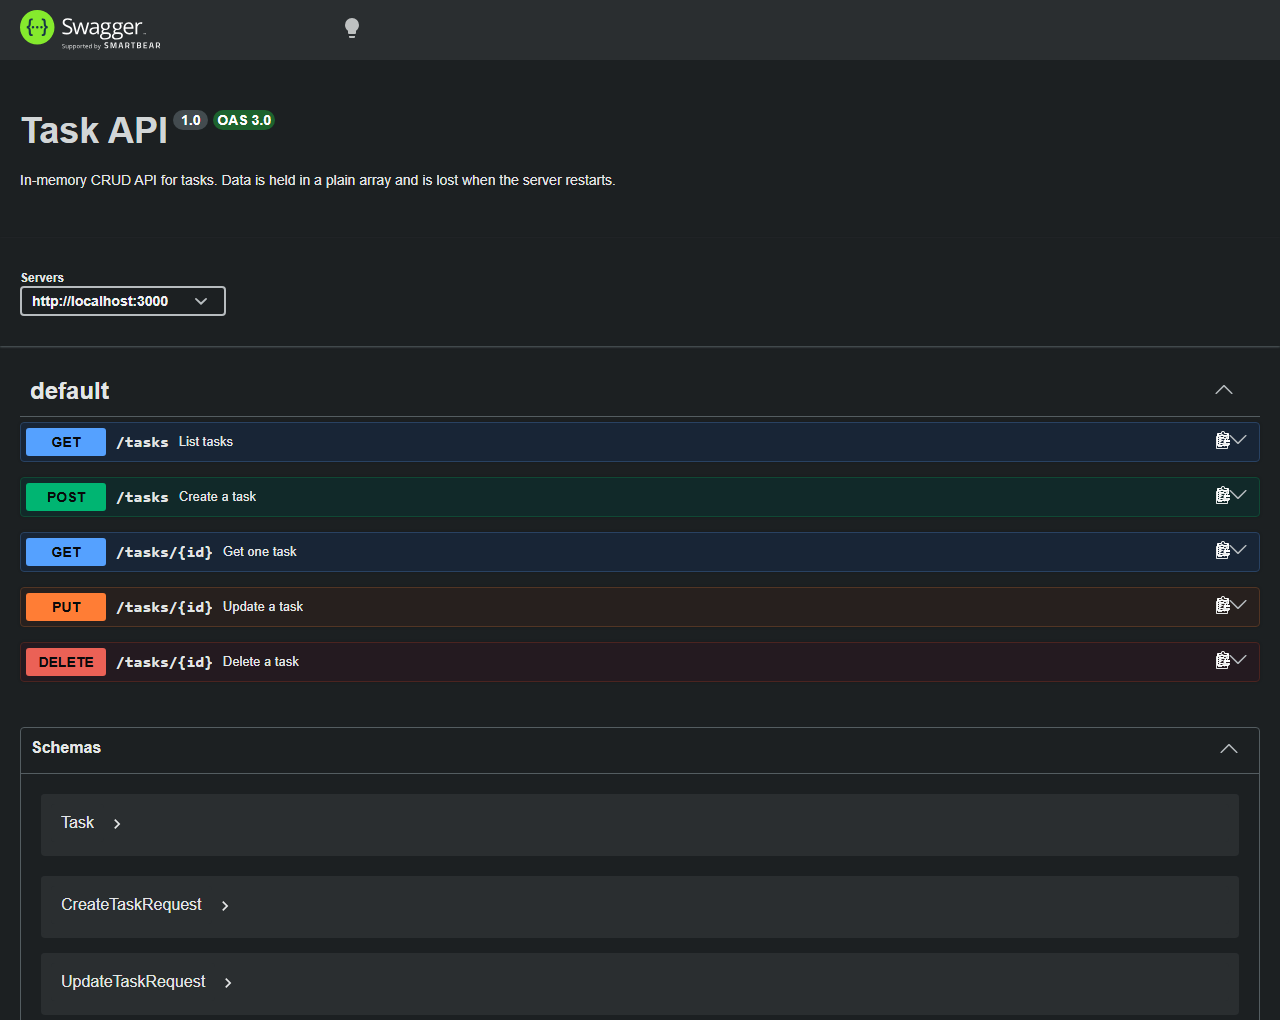
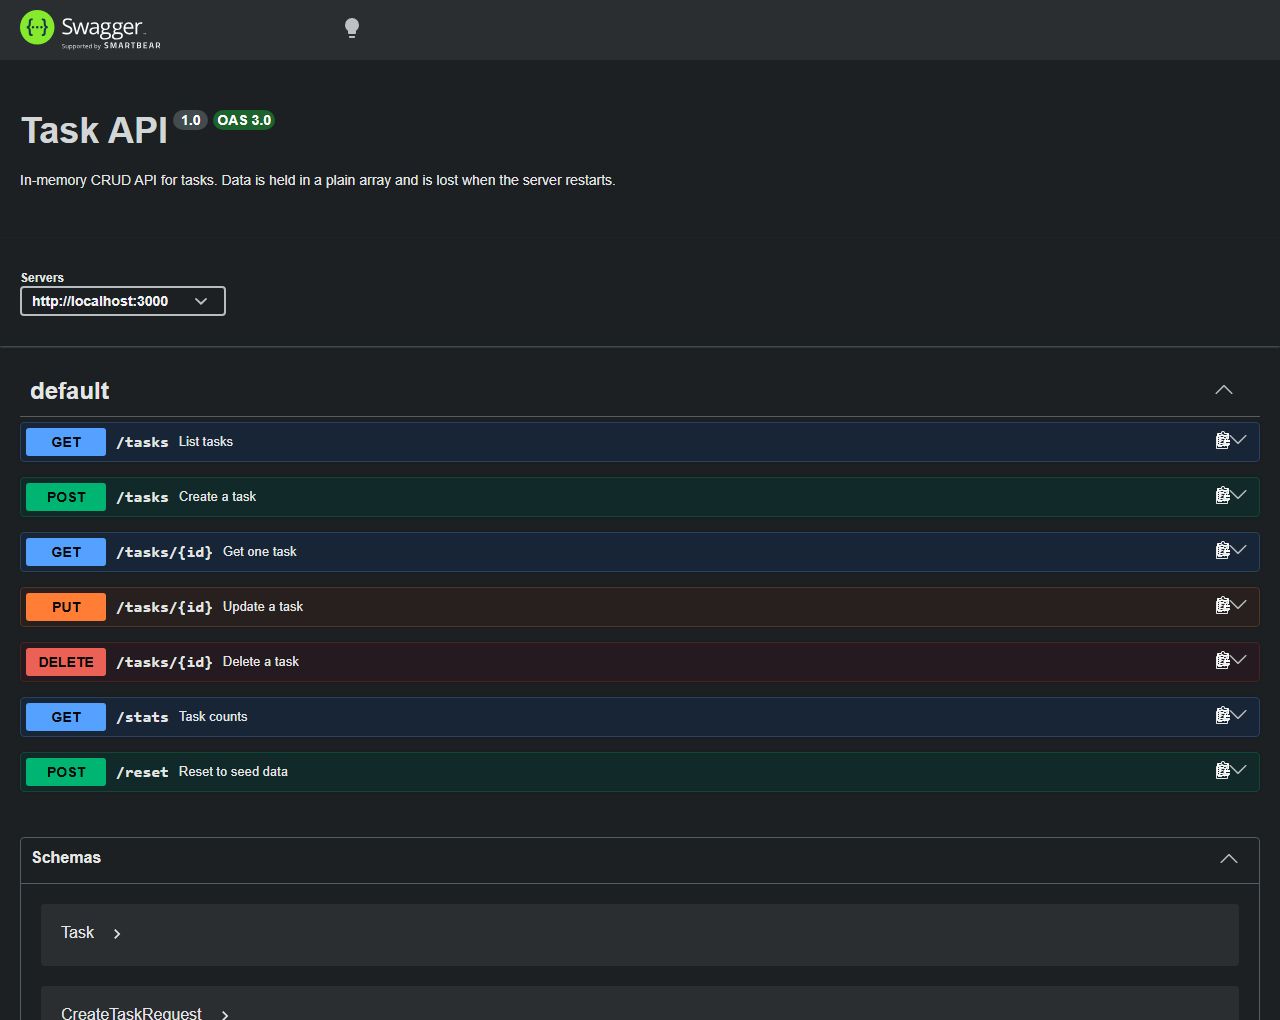
Stage 6: publish and docs

diff --git a/README.md b/README.md
@@ -40,7 +40,7 @@ changes. Set `PORT` to listen elsewhere: `PORT=4000 npm start`.
 A task looks like this:
 
 ```json
-{ "id": 1, "title": "Buy groceries", "done": false }
+{ "id": 1, "title": "Finish DSA assignment", "done": false }
 ```
 
 ### Query parameters on `/tasks`
@@ -48,9 +48,9 @@ A task looks like this:
 | Parameter | Example | Effect |
 |---|---|---|
 | `done` | `/tasks?done=true` | Only finished tasks. Must be `true` or `false`. |
-| `search` | `/tasks?search=milk` | Only tasks whose title contains the word, case-insensitive. |
+| `search` | `/tasks?search=memory` | Only tasks whose title contains the word, case-insensitive. |
 
-Both can be combined: `/tasks?done=false&search=milk`.
+Both can be combined: `/tasks?done=false&search=memory`.
 
 ### Validation rules
 
@@ -58,6 +58,7 @@ Both can be combined: `/tasks?done=false&search=milk`.
 - `PUT /tasks/:id` requires at least one of `title` or `done`. `title` cannot
   be empty; `done` must be a real boolean, not the string `"true"`.
 - Titles are trimmed before they are stored.
+- The client never chooses `id` or the initial `done` — the server assigns both.
 - A body that is not valid JSON returns 400, not a crash.
 
 ## A full lifecycle, via curl
@@ -68,24 +69,24 @@ visible at each step:
 ```text
 $ curl -i -X POST http://localhost:3000/tasks \
     -H "Content-Type: application/json" \
-    -d '{"title":"Buy milk"}'
+    -d '{"title":"Review pointer arithmetic notes"}'
 HTTP/1.1 201 Created
 Content-Type: application/json; charset=utf-8
 
-{"id":4,"title":"Buy milk","done":false}
+{"id":4,"title":"Review pointer arithmetic notes","done":false}
 
 $ curl -i http://localhost:3000/tasks/4
 HTTP/1.1 200 OK
 Content-Type: application/json; charset=utf-8
 
-{"id":4,"title":"Buy milk","done":false}
+{"id":4,"title":"Review pointer arithmetic notes","done":false}
 
 $ curl -i -X PUT http://localhost:3000/tasks/4 \
     -H "Content-Type: application/json" -d '{"done":true}'
 HTTP/1.1 200 OK
 Content-Type: application/json; charset=utf-8
 
-{"id":4,"title":"Buy milk","done":true}
+{"id":4,"title":"Review pointer arithmetic notes","done":true}
 
 $ curl -i -X DELETE http://localhost:3000/tasks/4
 HTTP/1.1 204 No Content
@@ -108,15 +109,15 @@ that sends a real request to the running server.
 
 ## What happens on restart
 
-I created a task called "Survive a restart", confirmed it was in `GET /tasks`,
-stopped the server, started it again, and asked for the list once more — the
-task was gone and only the three seed tasks came back.
+I created a task called "Survive a restart", confirmed `GET /tasks` returned
+four tasks, killed the process, started a new one, and asked for the list
+again — it came back with three. The new task was gone.
 
 That happens because `tasks` is an ordinary JavaScript array living in the
 process's heap. When the process exits, the operating system reclaims every
 page of memory it owned, and nothing was ever written anywhere that outlives
-it. A database is what fixes this: it writes to disk, so the data survives the
-process that created it.
+it. A database is what fixes this: it writes to disk before acknowledging the
+write, so the data survives the process that created it.
 
 ## Project layout
 
